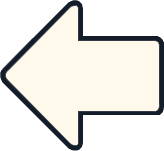
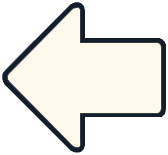
New menu textures.

Changed region(s): [[0.0, 0.0, 0.5183, 1.0], [0.4573, 0.2384, 1.0, 0.7682]]

diff --git a/app/jni/src/menus/start/StartMenuGUILayer.cpp b/app/jni/src/menus/start/StartMenuGUILayer.cpp
@@ -142,9 +142,9 @@ namespace MagneticBall3D
         // Map swipe left.
         if(EnumsAndVars::MapsProgress::currentMapIndex > 0)
         {
-            ImGui::SetCursorPos(ImVec2(0.06f * GUIWidth, 0.388f * GUIHeight));
+            ImGui::SetCursorPos(ImVec2(0.055f * GUIWidth, 0.387f * GUIHeight));
             m_mapSwipeLeftButtonClicked = ImGui::ImageButton("mapSwipeLeftButton", reinterpret_cast<ImTextureID>(m_mapSwipeLeftButtonTexture->getID()),
-                                                             ImVec2(0.15f * GUIWidth, 0.064f * GUIHeight));
+                                                             ImVec2(0.155f * GUIWidth, 0.066f * GUIHeight));
         }
         // Map preview.
         if(EnumsAndVars::MapsProgress::currentMapIndex < m_allMapsPreviewsTextures.size())
@@ -157,9 +157,9 @@ namespace MagneticBall3D
         if(EnumsAndVars::MapsProgress::currentMapIndex < EnumsAndVars::MapsProgress::lastOpenedMapIndex &&
            EnumsAndVars::MapsProgress::currentMapIndex < EnumsAndVars::MapsProgress::maxMapIndex)
         {
-            ImGui::SetCursorPos(ImVec2(0.81f * GUIWidth, 0.388f * GUIHeight));
+            ImGui::SetCursorPos(ImVec2(0.81f * GUIWidth, 0.387f * GUIHeight));
             m_mapSwipeRightButtonClicked = ImGui::ImageButton("mapSwipeRightButton", reinterpret_cast<ImTextureID>(m_mapSwipeRightButtonTexture->getID()),
-                                                              ImVec2(0.15f * GUIWidth, 0.064f * GUIHeight));
+                                                              ImVec2(0.155f * GUIWidth, 0.066f * GUIHeight));
         }
         ImGui::End();
         ImGui::PopStyleColor(4);

diff --git a/app/jni/src/maps/Map5.cpp b/app/jni/src/maps/Map5.cpp
@@ -362,7 +362,7 @@ namespace MagneticBall3D
             skeleton->attackType = AttackType::RANGE_DAMAGE_ONE;
             skeleton->attackSound = SoundType::NONE;
             skeleton->attackHitSound = SoundType::STONE_HIT;
-            skeleton->attackParticlesColor = glm::vec3{0.4258f, 0.84f, 0.68f};
+            skeleton->attackParticlesColor = glm::vec3{0.5f, 0.66f, 0.86f};
             skeleton->attackParticlesSize = 0.3f;
             skeleton->dieSound = SoundType::POP;
             skeleton->dieGarbageType = GarbageType::ENEMY_GARBAGE1;
@@ -434,7 +434,7 @@ namespace MagneticBall3D
             ghoul->attackType = AttackType::RANGE_DAMAGE_RADIUS;
             ghoul->attackSound = SoundType::NONE;
             ghoul->attackHitSound = SoundType::STONE_HIT;
-            ghoul->attackParticlesColor = glm::vec3{0.4258f, 0.84f, 0.68f};
+            ghoul->attackParticlesColor = glm::vec3{0.43f, 0.84f, 0.808f};
             ghoul->attackParticlesSize = 0.6f;
             ghoul->dieSound = SoundType::POP;
             ghoul->dieGarbageType = GarbageType::ENEMY_GARBAGE3;
